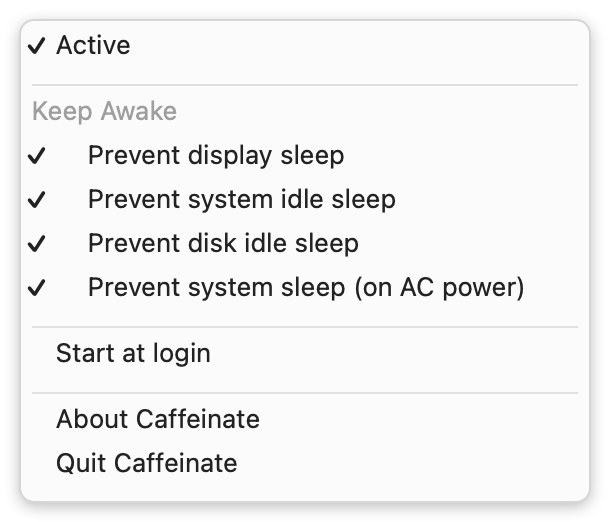
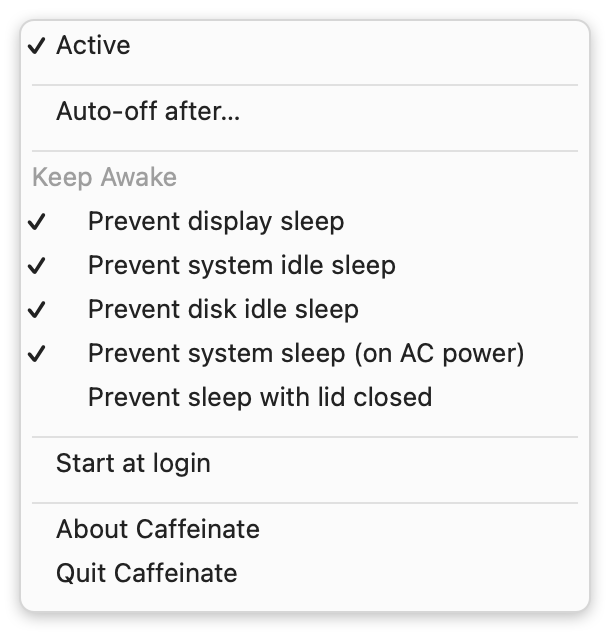
Add "Prevent sleep with lid closed" option
A new menu item, off by default, keeps a MacBook awake with the lid
closed while Caffeinate is active, on battery and with no external
display. It needs no root: it calls IOConnectCallScalarMethod on
IOPMrootDomain with kPMSetClamshellSleepState from IOPMLibDefs.h. The
call works inside the App Sandbox.

The override lives in the kernel, so Caffeinate clears it when it turns
off, on quit, and on launch (after a crash). If macOS refuses the call,
the option turns itself off and an alert says so.

Also: showLoginAlert becomes showAlert(title, message); the README
documents the option and drops the matching TODO; menu.png is
regenerated with the auto-off row and the new item.

diff --git a/Caffeinate/Appdelegate.swift b/Caffeinate/Appdelegate.swift
@@ -23,6 +23,7 @@ class AppDelegate: NSObject, NSApplicationDelegate, NSMenuDelegate {
     private var idleItem: NSMenuItem!
     private var diskItem: NSMenuItem!
     private var systemItem: NSMenuItem!
+    private var lidItem: NSMenuItem!
     private var loginItem: NSMenuItem!
 
     // Auto-off timer submenu items whose checkmarks track the config.
@@ -55,6 +56,12 @@ class AppDelegate: NSObject, NSApplicationDelegate, NSMenuDelegate {
         statusBarItem?.button?.target = self
         statusBarItem?.button?.sendAction(on: [.leftMouseUp, .rightMouseUp])
         updateStatusButton()
+        // Clear a lid-sleep override left behind by a previous run that crashed.
+        _ = setLidSleepDisabled(false)
+    }
+
+    func applicationWillTerminate(_ notification: Notification) {
+        _ = setLidSleepDisabled(false)
     }
 
     @objc private func statusItemClicked(_ sender: Any?) {
@@ -92,6 +99,7 @@ class AppDelegate: NSObject, NSApplicationDelegate, NSMenuDelegate {
         idleItem = addFlagItem(to: menu, title: "Prevent system idle sleep", action: #selector(toggleIdle))
         diskItem = addFlagItem(to: menu, title: "Prevent disk idle sleep", action: #selector(toggleDisk))
         systemItem = addFlagItem(to: menu, title: "Prevent system sleep (on AC power)", action: #selector(toggleSystem))
+        lidItem = addFlagItem(to: menu, title: "Prevent sleep with lid closed", action: #selector(toggleLid))
 
         menu.addItem(.separator())
 
@@ -174,6 +182,7 @@ class AppDelegate: NSObject, NSApplicationDelegate, NSMenuDelegate {
         idleItem.state = conf.preventIdleSleep ? .on : .off
         diskItem.state = conf.preventDiskIdle ? .on : .off
         systemItem.state = conf.preventSystemSleep ? .on : .off
+        lidItem.state = conf.preventLidSleep ? .on : .off
         loginItem.state = conf.atLogin ? .on : .off
         loginItem.isEnabled = configHandler.macOS13
 
@@ -206,6 +215,7 @@ class AppDelegate: NSObject, NSApplicationDelegate, NSMenuDelegate {
             hasCoffee = false
             stopAutoOff()
         }
+        syncLidSleep()
         updateStatusButton()
     }
 
@@ -214,6 +224,7 @@ class AppDelegate: NSObject, NSApplicationDelegate, NSMenuDelegate {
     @objc private func toggleIdle()    { flip { $0.preventIdleSleep.toggle() } }
     @objc private func toggleDisk()    { flip { $0.preventDiskIdle.toggle() } }
     @objc private func toggleSystem()  { flip { $0.preventSystemSleep.toggle() } }
+    @objc private func toggleLid()     { flip { $0.preventLidSleep.toggle() } }
 
     private func flip(_ change: (ConfigData) -> Void) {
         configHandler.mutateConfig(change)
@@ -222,6 +233,7 @@ class AppDelegate: NSObject, NSApplicationDelegate, NSMenuDelegate {
             // selected anymore, we end up inactive.
             hasCoffee = createAssertions(reason: "Caffeinate")
             if !hasCoffee { stopAutoOff() }
+            syncLidSleep()
             updateStatusButton()
         }
     }
@@ -332,16 +344,16 @@ class AppDelegate: NSObject, NSApplicationDelegate, NSMenuDelegate {
         case .ok, .unsupported:
             break
         case .requiresApproval:
-            showLoginAlert("Caffeinate needs your approval to start at login. Enable it under System Settings → General → Login Items.")
+            showAlert("Start at Login", "Caffeinate needs your approval to start at login. Enable it under System Settings → General → Login Items.")
         case .failed(let error):
-            showLoginAlert("Couldn't update the login item: \(error.localizedDescription)")
+            showAlert("Start at Login", "Couldn't update the login item: \(error.localizedDescription)")
         }
     }
 
-    private func showLoginAlert(_ message: String) {
+    private func showAlert(_ title: String, _ message: String) {
         NSApp.activate(ignoringOtherApps: true)
         let alert = NSAlert()
-        alert.messageText = "Start at Login"
+        alert.messageText = title
         alert.informativeText = message
         alert.alertStyle = .warning
         alert.runModal()
@@ -411,5 +423,39 @@ class AppDelegate: NSObject, NSApplicationDelegate, NSMenuDelegate {
         }
         activeAssertions.removeAll()
         return true
+    }
+
+    // MARK: - Lid-closed sleep
+
+    // Sets the clamshell sleep override of IOPMrootDomain through its public
+    // user client: selector kPMSetClamshellSleepState from IOPMLibDefs.h.
+    // Unlike `pmset disablesleep`, it needs no root and works in the sandbox.
+    // The state lives in the kernel, so it must be cleared on every exit path.
+    private func setLidSleepDisabled(_ disabled: Bool) -> kern_return_t {
+        let service = IOServiceGetMatchingService(kIOMainPortDefault,
+                                                  IOServiceMatching("IOPMrootDomain"))
+        var connect: io_connect_t = 0
+        var result = IOServiceOpen(service, mach_task_self_, 0, &connect)
+        if result == KERN_SUCCESS {
+            var input: [UInt64] = [disabled ? 1 : 0]
+            var outputCount: UInt32 = 0
+            result = IOConnectCallScalarMethod(connect, UInt32(kPMSetClamshellSleepState),
+                                               &input, 1, nil, &outputCount)
+            IOServiceClose(connect)
+        }
+        IOObjectRelease(service)
+        return result
+    }
+
+    // Lid-closed sleep is disabled only while Caffeinate is active and the
+    // option is checked. If macOS refuses, the option is turned off.
+    private func syncLidSleep() {
+        let disable = hasCoffee && configHandler.conf.preventLidSleep
+        let result = setLidSleepDisabled(disable)
+        if disable && result != KERN_SUCCESS {
+            configHandler.mutateConfig { $0.preventLidSleep = false }
+            showAlert("Prevent Sleep with Lid Closed",
+                      String(format: "macOS refused the request (0x%x).", result))
+        }
     }
 }

diff --git a/Caffeinate/Settings/ConfigData.swift b/Caffeinate/Settings/ConfigData.swift
@@ -14,6 +14,7 @@ func ==(op1: ConfigData, op2: ConfigData) -> Bool {
         && op1.preventIdleSleep == op2.preventIdleSleep
         && op1.preventDiskIdle == op2.preventDiskIdle
         && op1.preventSystemSleep == op2.preventSystemSleep
+        && op1.preventLidSleep == op2.preventLidSleep
         && op1.timerEnabled == op2.timerEnabled
         && op1.timerDuration == op2.timerDuration
 }
@@ -28,6 +29,8 @@ final class ConfigData: Decodable, Encodable {
     var preventIdleSleep :Bool    // -i
     var preventDiskIdle :Bool     // -m
     var preventSystemSleep :Bool  // -s
+    // Not a caffeinate(8) flag: disables clamshell (lid-closed) sleep while active.
+    var preventLidSleep :Bool
     // Optional auto-off countdown: when enabled, activation turns itself off
     // after timerDuration seconds.
     var timerEnabled :Bool
@@ -40,6 +43,7 @@ final class ConfigData: Decodable, Encodable {
         case preventIdleSleep
         case preventDiskIdle
         case preventSystemSleep
+        case preventLidSleep
         case timerEnabled
         case timerDuration
     }
@@ -53,6 +57,7 @@ final class ConfigData: Decodable, Encodable {
         self.preventIdleSleep = try container.decodeIfPresent(Bool.self, forKey: .preventIdleSleep) ?? true
         self.preventDiskIdle = try container.decodeIfPresent(Bool.self, forKey: .preventDiskIdle) ?? true
         self.preventSystemSleep = try container.decodeIfPresent(Bool.self, forKey: .preventSystemSleep) ?? true
+        self.preventLidSleep = try container.decodeIfPresent(Bool.self, forKey: .preventLidSleep) ?? false
         self.timerEnabled = try container.decodeIfPresent(Bool.self, forKey: .timerEnabled) ?? false
         self.timerDuration = try container.decodeIfPresent(TimeInterval.self, forKey: .timerDuration) ?? (60 * 60)
     }
@@ -64,6 +69,7 @@ final class ConfigData: Decodable, Encodable {
         preventIdleSleep = true
         preventDiskIdle = true
         preventSystemSleep = true
+        preventLidSleep = false
         timerEnabled = false
         timerDuration = 60 * 60 // default: 1 hour
     }
@@ -75,6 +81,7 @@ final class ConfigData: Decodable, Encodable {
         preventIdleSleep = copy.preventIdleSleep
         preventDiskIdle = copy.preventDiskIdle
         preventSystemSleep = copy.preventSystemSleep
+        preventLidSleep = copy.preventLidSleep
         timerEnabled = copy.timerEnabled
         timerDuration = copy.timerDuration
     }

diff --git a/scripts/make-screenshots.swift b/scripts/make-screenshots.swift
@@ -61,11 +61,14 @@ enum Row {
 let rows: [Row] = [
     .check("Active", on: true, indent: false),
     .sep,
+    .plain("Auto-off after\u{2026}"),
+    .sep,
     .header("Keep Awake"),
     .check("Prevent display sleep", on: true, indent: true),
     .check("Prevent system idle sleep", on: true, indent: true),
     .check("Prevent disk idle sleep", on: true, indent: true),
     .check("Prevent system sleep (on AC power)", on: true, indent: true),
+    .check("Prevent sleep with lid closed", on: false, indent: true),
     .sep,
     .plain("Start at login"),
     .sep,

diff --git a/README.md b/README.md
@@ -17,6 +17,9 @@ These mirror the flags of the built-in `caffeinate(8)` command-line tool and can
 | Prevent disk idle sleep | `-m` |
 | Prevent system sleep (on AC power) | `-s` |
 
+### Prevent sleep with lid closed
+An extra option, off by default: while Caffeinate is active, a MacBook stays awake when you close the lid, even on battery and without an external display. No root or helper is needed. It uses the public IOKit call `IOConnectCallScalarMethod` on `IOPMrootDomain` with the selector `kPMSetClamshellSleepState` from `IOPMLibDefs.h` (undocumented, but in the SDK). Caffeinate clears it when you turn Caffeinate off, quit, or relaunch it. A closed MacBook in a bag can get hot, so pairing it with the auto-off timer is a good idea.
+
 ### Auto-off timer
 Optionally have Caffeinate turn itself off after a set time. Under **Auto-off after…** in the right-click menu, pick a preset (15 minutes up to 8 hours) or **Custom…** to enter your own duration in minutes; choose **Off** to disable it. When enabled, activating Caffeinate starts a countdown that appears next to the cup in the menu bar (and in the **Active** row of the menu), and Caffeinate deactivates automatically when it reaches zero.
 
@@ -83,9 +86,6 @@ To cut a release (matching the `Caffeinate.app.zip` asset the upstream repo ship
 **How do I quit?**
 
 Right-click the menu bar item and choose **Quit Caffeinate**.
-
-## TODO
-Even if the lid is closed, prevent the Mac from sleeping. This probably requires root privelages.
 
 ## Links
 [CPUMonitor menu bar app](https://github.com/LennardKittner/CPUMonitor)
